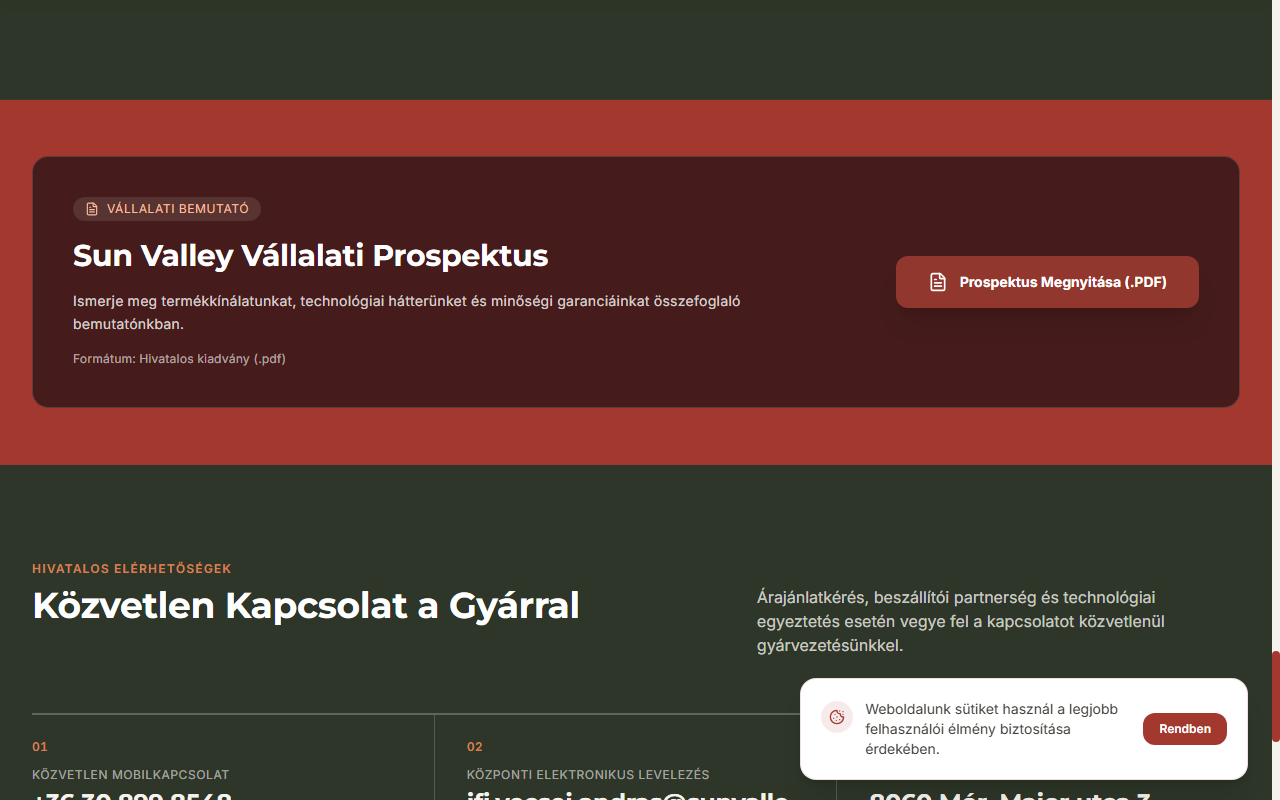
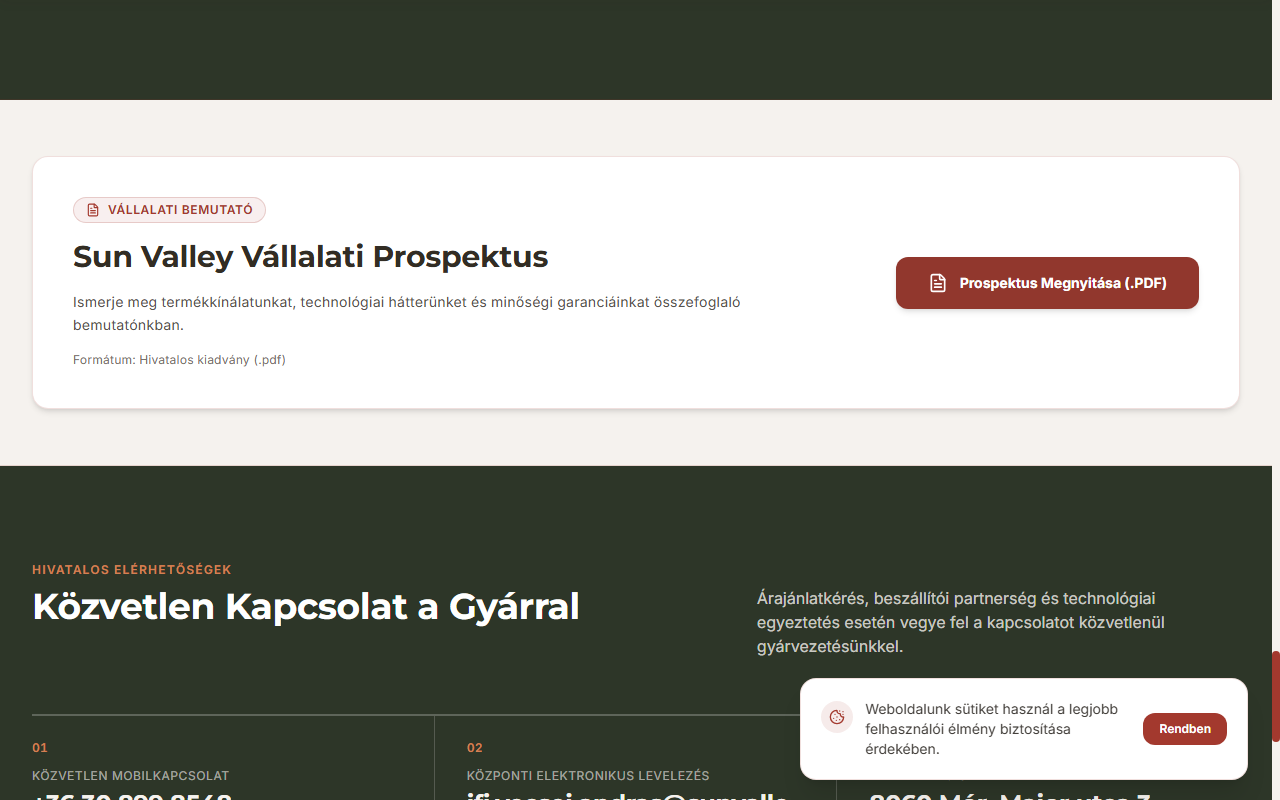
design(prospektus): alsó színritmus harmonizálása (Prospektus világosítása)
- Prospektus szekció háttere papíralap krémfehérre (var(--sv-paper-cream)) állítva
- Kártya stílusa tiszta lebegő fehér kártyára váltott finom szürke szegéllyel és árnyékkal
- Megszűnt a zöld-vörös-zöld-sötétbordó telített vibráció, tiszta vizuális szünet az Egyedi receptúra és a Kapcsolat között
- scripts/compile_v2.py és index.html frissítve, verifikációs teszt sikeres

diff --git a/index.html b/index.html
@@ -1028,34 +1028,38 @@
   <!-- ========================================================================= -->
   <!-- OFFICIAL B2B PROSPECTUS DOWNLOAD SHOWCASE                                 -->
   <!-- ========================================================================= -->
-  <section id="prospektus" class="py-14 border-b transition-colors" style="background-color: var(--sv-burgundy); color: #F5F2EE; border-color: var(--sv-border);">
+  <section id="prospektus" class="py-14 border-b transition-colors" style="background-color: var(--sv-paper-cream); color: var(--sv-text); border-color: var(--sv-border);">
     <div class="max-w-7xl mx-auto px-4 sm:px-8">
-      <div class="rounded-2xl p-6 sm:p-10 border flex flex-col lg:flex-row items-center justify-between gap-8"
-           style="background-color: var(--sv-burgundy-dark); border-color: rgba(255,255,255,0.15);">
+      <div class="rounded-2xl p-6 sm:p-10 border bg-white shadow-md flex flex-col lg:flex-row items-center justify-between gap-8"
+           style="border-color: var(--sv-border);">
         
         <div class="space-y-4 max-w-2xl text-center lg:text-left">
-          <div class="inline-flex items-center gap-2 px-3 py-1 rounded-full text-xs font-mono-spec uppercase tracking-wider bg-white/10 text-[#FBBB9C]">
-            <i data-lucide="file-text" class="w-3.5 h-3.5 text-[#FBBB9C]"></i>
+          <div class="inline-flex items-center gap-2 px-3 py-1 rounded-full text-xs font-mono-spec uppercase tracking-wider font-semibold border"
+               style="background-color: rgba(163, 57, 46, 0.08); color: var(--sv-burgundy); border-color: rgba(163, 57, 46, 0.2);">
+            <i data-lucide="file-text" class="w-3.5 h-3.5" style="color: var(--sv-burgundy);"></i>
             <span data-i18n="prospectus_badge">VÁLLALATI BEMUTATÓ</span>
           </div>
 
-          <h3 class="font-syne font-bold text-2xl sm:text-3xl text-white leading-tight" data-i18n="prospectus_title">
+          <h3 class="font-syne font-bold text-2xl sm:text-3xl text-stone-900 leading-tight" data-i18n="prospectus_title">
             Sun Valley Vállalati Prospektus
           </h3>
 
-          <p class="text-sm text-white/80 leading-relaxed font-mono-spec" data-i18n="prospectus_desc">
+          <p class="text-sm text-stone-600 leading-relaxed font-mono-spec" data-i18n="prospectus_desc">
             Ismerje meg termékkínálatunkat, technológiai hátterünket és minőségi garanciáinkat összefoglaló bemutatónkban.
           </p>
 
-          <div class="flex flex-wrap items-center justify-center lg:justify-start gap-4 text-xs font-mono-spec text-white/60">
-            <span data-i18n="prospectus_format">Formátum: Hivatalos kiadvány (.pdf)</span>
+          <div class="flex flex-wrap items-center justify-center lg:justify-start gap-4 text-xs font-mono-spec text-stone-500">
+            <span data-i18n="prospectus_format" class="inline-flex items-center gap-1.5">
+              <i data-lucide="check-circle-2" class="w-3.5 h-3.5 text-emerald-600"></i>
+              <span>Formátum: Hivatalos kiadvány (.pdf)</span>
+            </span>
           </div>
         </div>
 
         <div class="shrink-0">
           <a href="assets/Sun_Valley_B2B_Prospektus.pdf" target="_blank" rel="noopener noreferrer"
-             class="inline-flex items-center gap-3 px-8 py-4 rounded-xl font-bold text-sm shadow-xl hover:scale-105 transition-all transform active:scale-95"
-             style="background-color: var(--sv-orange); color: white;">
+             class="inline-flex items-center gap-3 px-8 py-4 rounded-xl font-bold text-sm shadow-md hover:shadow-lg hover:scale-105 transition-all transform active:scale-95 text-white"
+             style="background-color: var(--sv-orange);">
             <i data-lucide="file-text" class="w-5 h-5"></i>
             <span data-i18n="btn_download_prospectus">Prospektus Megnyitása (.PDF)</span>
           </a>

diff --git a/scripts/compile_v2.py b/scripts/compile_v2.py
@@ -1037,34 +1037,38 @@ def generate_html():
   <!-- ========================================================================= -->
   <!-- OFFICIAL B2B PROSPECTUS DOWNLOAD SHOWCASE                                 -->
   <!-- ========================================================================= -->
-  <section id="prospektus" class="py-14 border-b transition-colors" style="background-color: var(--sv-burgundy); color: #F5F2EE; border-color: var(--sv-border);">
+  <section id="prospektus" class="py-14 border-b transition-colors" style="background-color: var(--sv-paper-cream); color: var(--sv-text); border-color: var(--sv-border);">
     <div class="max-w-7xl mx-auto px-4 sm:px-8">
-      <div class="rounded-2xl p-6 sm:p-10 border flex flex-col lg:flex-row items-center justify-between gap-8"
-           style="background-color: var(--sv-burgundy-dark); border-color: rgba(255,255,255,0.15);">
+      <div class="rounded-2xl p-6 sm:p-10 border bg-white shadow-md flex flex-col lg:flex-row items-center justify-between gap-8"
+           style="border-color: var(--sv-border);">
         
         <div class="space-y-4 max-w-2xl text-center lg:text-left">
-          <div class="inline-flex items-center gap-2 px-3 py-1 rounded-full text-xs font-mono-spec uppercase tracking-wider bg-white/10 text-[#FBBB9C]">
-            <i data-lucide="file-text" class="w-3.5 h-3.5 text-[#FBBB9C]"></i>
+          <div class="inline-flex items-center gap-2 px-3 py-1 rounded-full text-xs font-mono-spec uppercase tracking-wider font-semibold border"
+               style="background-color: rgba(163, 57, 46, 0.08); color: var(--sv-burgundy); border-color: rgba(163, 57, 46, 0.2);">
+            <i data-lucide="file-text" class="w-3.5 h-3.5" style="color: var(--sv-burgundy);"></i>
             <span data-i18n="prospectus_badge">VÁLLALATI BEMUTATÓ</span>
           </div>
 
-          <h3 class="font-syne font-bold text-2xl sm:text-3xl text-white leading-tight" data-i18n="prospectus_title">
+          <h3 class="font-syne font-bold text-2xl sm:text-3xl text-stone-900 leading-tight" data-i18n="prospectus_title">
             Sun Valley Vállalati Prospektus
           </h3>
 
-          <p class="text-sm text-white/80 leading-relaxed font-mono-spec" data-i18n="prospectus_desc">
+          <p class="text-sm text-stone-600 leading-relaxed font-mono-spec" data-i18n="prospectus_desc">
             Ismerje meg termékkínálatunkat, technológiai hátterünket és minőségi garanciáinkat összefoglaló bemutatónkban.
           </p>
 
-          <div class="flex flex-wrap items-center justify-center lg:justify-start gap-4 text-xs font-mono-spec text-white/60">
-            <span data-i18n="prospectus_format">Formátum: Hivatalos kiadvány (.pdf)</span>
+          <div class="flex flex-wrap items-center justify-center lg:justify-start gap-4 text-xs font-mono-spec text-stone-500">
+            <span data-i18n="prospectus_format" class="inline-flex items-center gap-1.5">
+              <i data-lucide="check-circle-2" class="w-3.5 h-3.5 text-emerald-600"></i>
+              <span>Formátum: Hivatalos kiadvány (.pdf)</span>
+            </span>
           </div>
         </div>
 
         <div class="shrink-0">
           <a href="assets/Sun_Valley_B2B_Prospektus.pdf" target="_blank" rel="noopener noreferrer"
-             class="inline-flex items-center gap-3 px-8 py-4 rounded-xl font-bold text-sm shadow-xl hover:scale-105 transition-all transform active:scale-95"
-             style="background-color: var(--sv-orange); color: white;">
+             class="inline-flex items-center gap-3 px-8 py-4 rounded-xl font-bold text-sm shadow-md hover:shadow-lg hover:scale-105 transition-all transform active:scale-95 text-white"
+             style="background-color: var(--sv-orange);">
             <i data-lucide="file-text" class="w-5 h-5"></i>
             <span data-i18n="btn_download_prospectus">Prospektus Megnyitása (.PDF)</span>
           </a>

diff --git a/docs/TODO.md b/docs/TODO.md
@@ -273,6 +273,9 @@ A beérkezett visszajelzések és a lefolytatott `/grill-me` döntések alapján
 - [x] **Hero jobb oldal letisztítása (kizárólag kép):**
   - *Feladat:* A korábbi specifikációs kártya, gombok és overlayek helyett kizárólag a letisztult kajszibarack kép jelenik meg az 5 oszlopos konténerben.
   - *Státusz:* **KÉSZ**.
+- [x] **Prospektus szekció világosítása (alsó színritmus harmonizálása):**
+  - *Feladat:* A túlságosan sötét és telített alsó szekció-ritmus (*zöld $\rightarrow$ vörös $\rightarrow$ zöld $\rightarrow$ sötétbordó*) feloldása érdekében a Prospektus szekció papíralap krémfehér hátteret (`var(--sv-paper-cream)`) és fehér lebegő kártyát kapott sötét prémium tipográfiával, tiszta vizuális szünetet biztosítva a két mélyzöld szakasz között.
+  - *Státusz:* **KÉSZ**.
 
 ---
 
